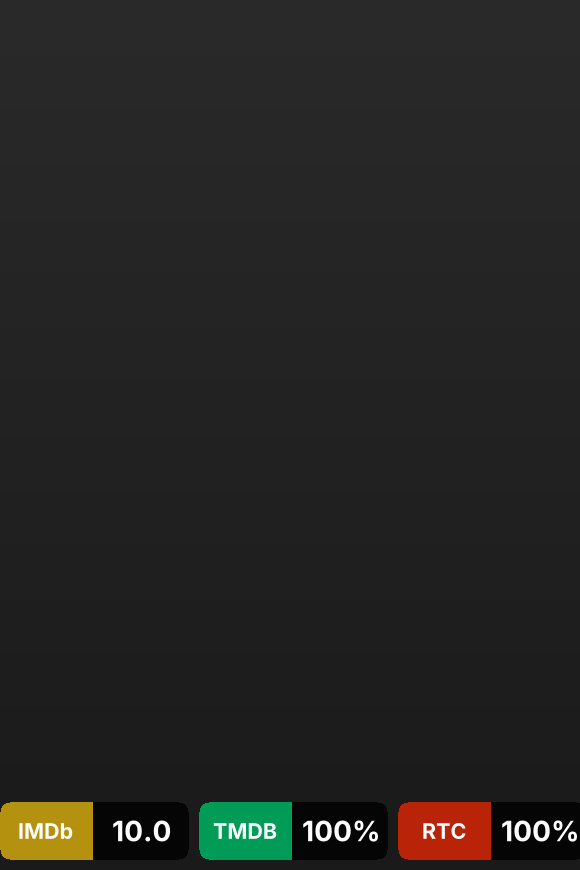
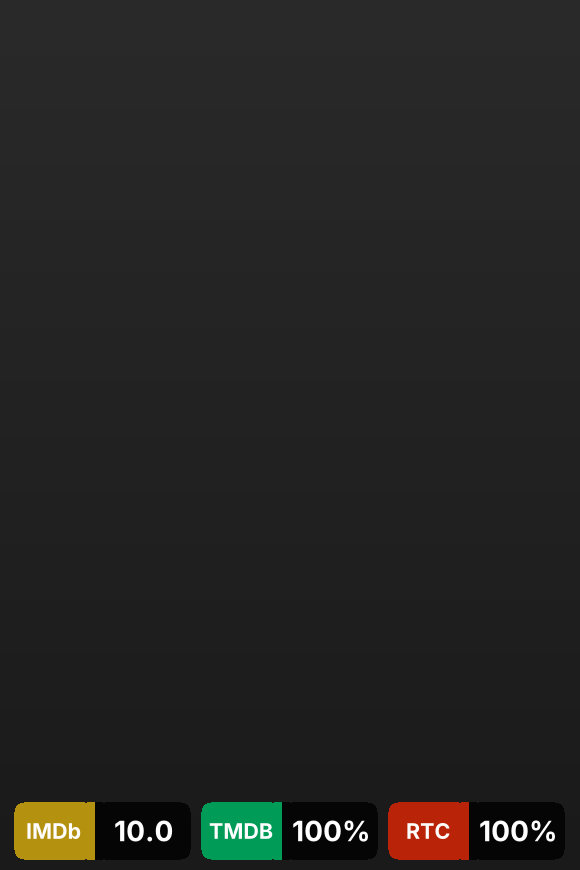
adjust horizontal padding for text label image

Changed region(s): [[0.3414, 0.9, 0.9931, 0.9931], [0.0, 0.9, 0.3103, 0.9931]]

diff --git a/api/src/image/badge.rs b/api/src/image/badge.rs
@@ -9,6 +9,7 @@ use crate::services::ratings::RatingBadge;
 
 const BASE_BADGE_HEIGHT: u32 = 58;
 const BASE_BADGE_PADDING_H: u32 = 14;
+const BASE_TEXT_LABEL_PADDING_H: u32 = 8;
 const BASE_BADGE_VALUE_PADDING_H: u32 = 10;
 const BASE_BADGE_RADIUS: u32 = 10;
 const BASE_FONT_SIZE: f32 = 34.0;
@@ -33,6 +34,7 @@ pub fn render_badge(badge: &RatingBadge, font: &FontArc, label_style: &str) -> R
 struct ScaledDims {
     badge_height: u32,
     badge_padding_h: u32,
+    text_label_padding_h: u32,
     badge_value_padding_h: u32,
     badge_radius: u32,
     icon_height: u32,
@@ -43,6 +45,7 @@ impl ScaledDims {
         Self {
             badge_height: (BASE_BADGE_HEIGHT as f32 * badge_scale).round() as u32,
             badge_padding_h: (BASE_BADGE_PADDING_H as f32 * badge_scale).round() as u32,
+            text_label_padding_h: (BASE_TEXT_LABEL_PADDING_H as f32 * badge_scale).round() as u32,
             badge_value_padding_h: (BASE_BADGE_VALUE_PADDING_H as f32 * badge_scale).round() as u32,
             badge_radius: (BASE_BADGE_RADIUS as f32 * badge_scale).round() as u32,
             icon_height: (BASE_ICON_HEIGHT as f32 * badge_scale).round() as u32,
@@ -140,27 +143,28 @@ fn render_badge_inner(
         uniform_label_width.unwrap_or_else(|| text_width(label, &fonts.label_scaled))
     };
     let value_width = uniform_value_width.unwrap_or_else(|| text_width(value, &fonts.scaled));
-    let total_width = label_width + value_width + dims.badge_padding_h * 2 + dims.badge_value_padding_h + dims.badge_value_padding_h / 2 + 2;
+    let label_pad = if use_icon { dims.badge_padding_h } else { dims.text_label_padding_h };
+    let total_width = label_width + value_width + label_pad * 2 + dims.badge_value_padding_h + dims.badge_value_padding_h / 2 + 2;
 
     let mut img = RgbaImage::new(total_width, dims.badge_height);
 
     // Draw label background (colored)
     let dark_bg = Rgba([0, 0, 0, 200]);
-    draw_rounded_rect(&mut img, 0, 0, label_width + dims.badge_padding_h * 2, dims.badge_height, dims.badge_radius, badge.source.color());
+    draw_rounded_rect(&mut img, 0, 0, label_width + label_pad * 2, dims.badge_height, dims.badge_radius, badge.source.color());
 
     // Draw value background (dark)
-    let value_x = label_width + dims.badge_padding_h * 2;
+    let value_x = label_width + label_pad * 2;
     draw_rounded_rect(&mut img, value_x, 0, total_width - value_x, dims.badge_height, dims.badge_radius, dark_bg);
 
     // Overdraw the inner corners to make a clean join
     draw_filled_rect_mut(
         &mut img,
-        Rect::at((label_width + dims.badge_padding_h) as i32, 0).of_size(dims.badge_padding_h, dims.badge_height),
+        Rect::at((label_width + label_pad) as i32, 0).of_size(label_pad, dims.badge_height),
         badge.source.color(),
     );
     draw_filled_rect_mut(
         &mut img,
-        Rect::at(value_x as i32, 0).of_size(dims.badge_padding_h, dims.badge_height),
+        Rect::at(value_x as i32, 0).of_size(label_pad, dims.badge_height),
         dark_bg,
     );
 
@@ -173,12 +177,12 @@ fn render_badge_inner(
         } else {
             imageops::resize(icon, icon_w, dims.icon_height, imageops::FilterType::Lanczos3)
         };
-        let ix = dims.badge_padding_h + (label_width.saturating_sub(icon_w)) / 2;
+        let ix = label_pad + (label_width.saturating_sub(icon_w)) / 2;
         let iy = (dims.badge_height.saturating_sub(dims.icon_height)) / 2;
         imageops::overlay(&mut img, &scaled_icon, ix as i64, iy as i64);
     } else {
         let actual_label_width = text_width(label, &fonts.label_scaled);
-        let label_x = dims.badge_padding_h + (label_width.saturating_sub(actual_label_width)) / 2;
+        let label_x = label_pad + (label_width.saturating_sub(actual_label_width)) / 2;
         let label_y = (dims.badge_height as i32 - fonts.label_scale.x as i32) / 2;
         draw_text_mut(
             &mut img,
@@ -523,6 +527,7 @@ mod tests {
         let dims = ScaledDims::new(1.0);
         assert_eq!(dims.badge_height, BASE_BADGE_HEIGHT);
         assert_eq!(dims.badge_padding_h, BASE_BADGE_PADDING_H);
+        assert_eq!(dims.text_label_padding_h, BASE_TEXT_LABEL_PADDING_H);
         assert_eq!(dims.badge_radius, BASE_BADGE_RADIUS);
         assert_eq!(dims.icon_height, BASE_ICON_HEIGHT);
     }
